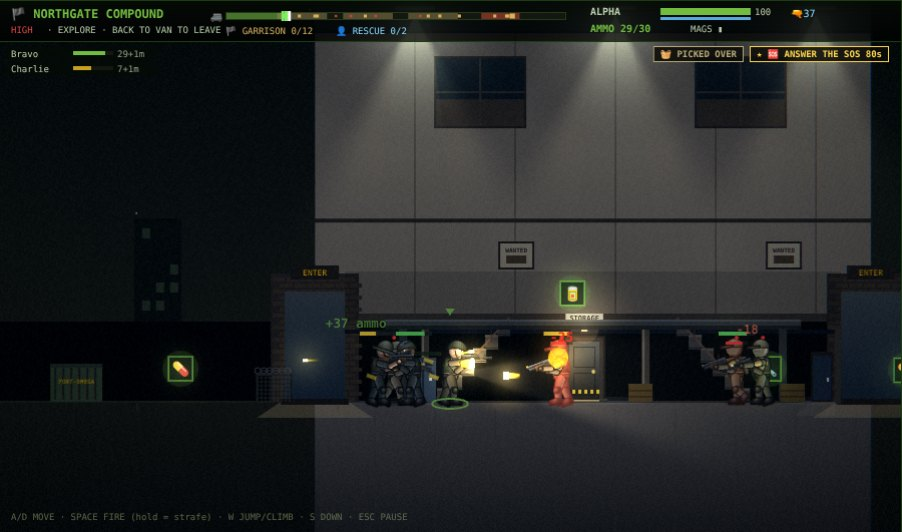
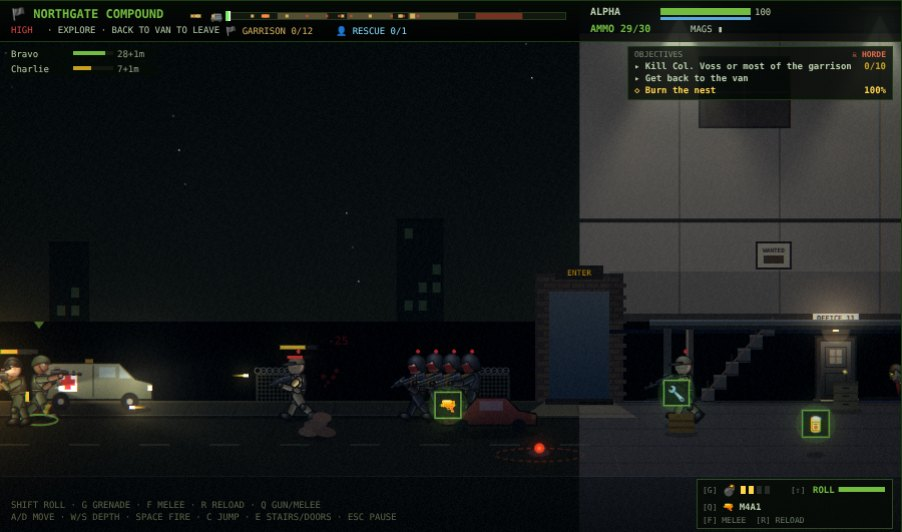
README: new sortie, room and assault screenshots with the depth band

diff --git a/README.md b/README.md
@@ -15,7 +15,7 @@
 | ![Siege](docs/screenshots/siege.jpg) | ![City map](docs/screenshots/city-map.jpg) |
 | **Siege** — three lanes, radar, wave conditions, radio events | **City map** — 17 places that remember infestation and loot |
 | ![Sortie](docs/screenshots/sortie.jpg) | ![Room](docs/screenshots/room.jpg) |
-| **Sortie** — walk into buildings, climb, loot, get back to the van | **Rooms** — press E at a door: apartments, clinics, storage, armories |
+| **Sortie** — a street with depth: line up to hit, loot, get back to the van | **Rooms** — press E at a door: apartments, clinics, storage, armories |
 | ![Compound assault](docs/screenshots/assault.jpg) | ![Command center](docs/screenshots/command-center.jpg) |
 | **Assault on the Northgate Compact** — soldiers, not zombies | **Command center** — survivors' jobs, main story, journal |
 | ![Italian title screen](docs/screenshots/italian-menu.jpg) | ![Italian sortie](docs/screenshots/italian-room.jpg) |
